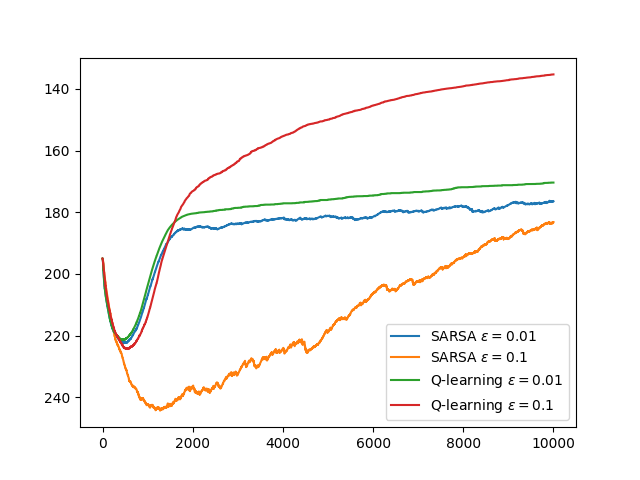
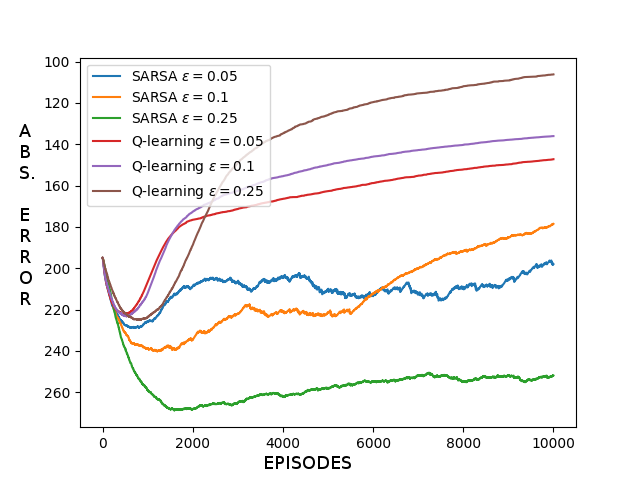
add montecarlot estimation

diff --git a/cliff_walking.py b/cliff_walking.py
@@ -94,18 +94,18 @@ def action_to_verbose(action):
 
 
 def sarsa(state, next_state, action, next_state_action):
-    return state.q_values[action] +\
+    return reward(state, next_state), state.q_values[action] +\
             learning_rate * (reward(state, next_state) + gamma * next_state.q_values[next_state_action] - state.q_values[action])
 
 
 def q_learning(state, next_state, action, next_state_action):
     next_state_q_value = next_state.get_max_q_value()
-    return state.q_values[action] +\
+    return reward(state, next_state), state.q_values[action] +\
             learning_rate * (reward(state, next_state) + gamma * next_state_q_value - state.q_values[action])
 
-N_STEPS = 20000
+N_STEPS = 10000
 METHOD = 'BOTH'
-EPSILONS = [0.005, 0.05, 0.5]
+EPSILONS = [0.05, 0.1, 0.25]
 
 def run_code(use_q_learning=False, _epsilon=0.01):
     states = initialize_states()
@@ -113,6 +113,7 @@ def run_code(use_q_learning=False, _epsilon=0.01):
     min_epsilon = 0.00001
     epsilon = _epsilon
 
+    episode_rewards = []
     mistakes_array = []  # array which tracks error from convergence on each step
     for i in range(N_STEPS):
         # select a random starting state
@@ -120,7 +121,9 @@ def run_code(use_q_learning=False, _epsilon=0.01):
 
         # iterate until reaching a terminal state
         epsilon = max(min_epsilon, epsilon * decay)
+        episode_reward = 0
         while not current_state.is_terminal():
+
             if random() < epsilon:
                 next_action = randint(0, 3)
             else:
@@ -135,12 +138,17 @@ def run_code(use_q_learning=False, _epsilon=0.01):
                 next_state_action = next_state.get_max_q_index()
 
             if use_q_learning:
-                current_state.q_values[next_action] = q_learning(current_state, next_state, next_action, next_state_action)
+                reward, current_state.q_values[next_action] = q_learning(current_state, next_state, next_action, next_state_action)
             else:
-                current_state.q_values[next_action] = sarsa(current_state, next_state, next_action, next_state_action)
+                reward, current_state.q_values[next_action] = sarsa(current_state, next_state, next_action, next_state_action)
 
             # print(current_state, next_state, action_to_verbose(next_action), di, dj)
+            episode_reward += reward
             current_state = next_state
+        if len(episode_rewards):
+            episode_rewards.append(episode_rewards[-1] + episode_reward)
+        else:
+            episode_rewards.append(episode_reward)
 
         '''
         if (i % 100 == 0):
@@ -148,7 +156,7 @@ def run_code(use_q_learning=False, _epsilon=0.01):
         '''
         mistakes_array.append(check_accuracy(states))
 
-    return np.array(mistakes_array), states
+    return np.array(mistakes_array), states, episode_rewards
 
 def check_accuracy(states):
     correct_result = np.array([
@@ -241,22 +249,37 @@ mistakes_q_learning = []
 mistakes_sarsa = []
 PLOTS = 0
 fig, axes = plt.subplots(3, 2)
+rewards = []
 for epsilon in EPSILONS:
     if METHOD == 'Q_LEARNING' or METHOD == 'BOTH':
-        _mistakes_q_learning, end_states_q_learning = run_code(use_q_learning=True, _epsilon=epsilon)
+        _mistakes_q_learning, end_states_q_learning, episode_rewards = run_code(use_q_learning=True, _epsilon=epsilon)
         plot_best_q_values_states(end_states_q_learning, 'Q_LEARNING', epsilon, PLOTS, fig, axes)
         display_optimal_policy(end_states_q_learning, 'Q LEARNING', epsilon)
-        # mistakes_q_learning.append((epsilon, _mistakes_q_learning))
+        mistakes_q_learning.append((epsilon, _mistakes_q_learning))
+        rewards.append(('Q_LEARNING', epsilon, episode_rewards))
     PLOTS += 1
 
 for epsilon in EPSILONS:
     if METHOD == 'SARSA' or METHOD == 'BOTH':
-        _mistakes_sarsa, end_states_sarsa = run_code(use_q_learning=False, _epsilon=epsilon)
+        _mistakes_sarsa, end_states_sarsa, episode_rewards = run_code(use_q_learning=False, _epsilon=epsilon)
         plot_best_q_values_states(end_states_sarsa, 'SARSA', epsilon, PLOTS, fig, axes)
         display_optimal_policy(end_states_sarsa, 'SARSA', epsilon)
-        # mistakes_sarsa.append((epsilon, _mistakes_sarsa))
+        mistakes_sarsa.append((epsilon, _mistakes_sarsa))
+        rewards.append(('SARSA', epsilon, episode_rewards))
     PLOTS += 1
+
 
 plt.savefig('all_runs.png')
 plt.show()
-# plot_errors(mistakes_sarsa, mistakes_q_learning)
+# for i, j  in [(0, 3), (1, 4), (2, 5)]:
+for reward in rewards:
+    # plt.plot(rewards[i][2], 'o', label='{} ε = {} '.format(rewards[i][0], rewards[i][1]))
+    # plt.plot(rewards[j][2], 'o', label='{} ε = {} '.format(rewards[j][0], rewards[j][1]))
+    plt.plot(reward[2], label='{} ε = {} '.format(reward[0], reward[1]))
+    plt.xlabel('Episodes')
+    plt.ylabel('Sum of rewards during episode')
+plt.legend()
+plt.show()
+plt.savefig('episode_rewards.png')
+
+plot_errors(mistakes_sarsa, mistakes_q_learning)

diff --git a/montecarlo.py b/montecarlo.py
@@ -1,0 +1,22 @@
+from math import *
+from numpy import *
+from random import *
+
+
+# Density_Function of the standard gaussian distribution
+def density_normal(x):
+  return 1/sqrt(2*pi) * exp(-x**2 / 2)
+
+#This would be the uniform density function. But do not need this actually, I think
+def density_uniform(x):
+  if (-5 <= x and x <= 5):
+    return 1/10
+  else:
+    return 0
+
+# Density involving the cosinus:
+def density_cosinus(x):
+  if (-1 <= x and x <= 1):
+    return (1 + cos(pi*x)) / 2
+  else:
+    return 0
